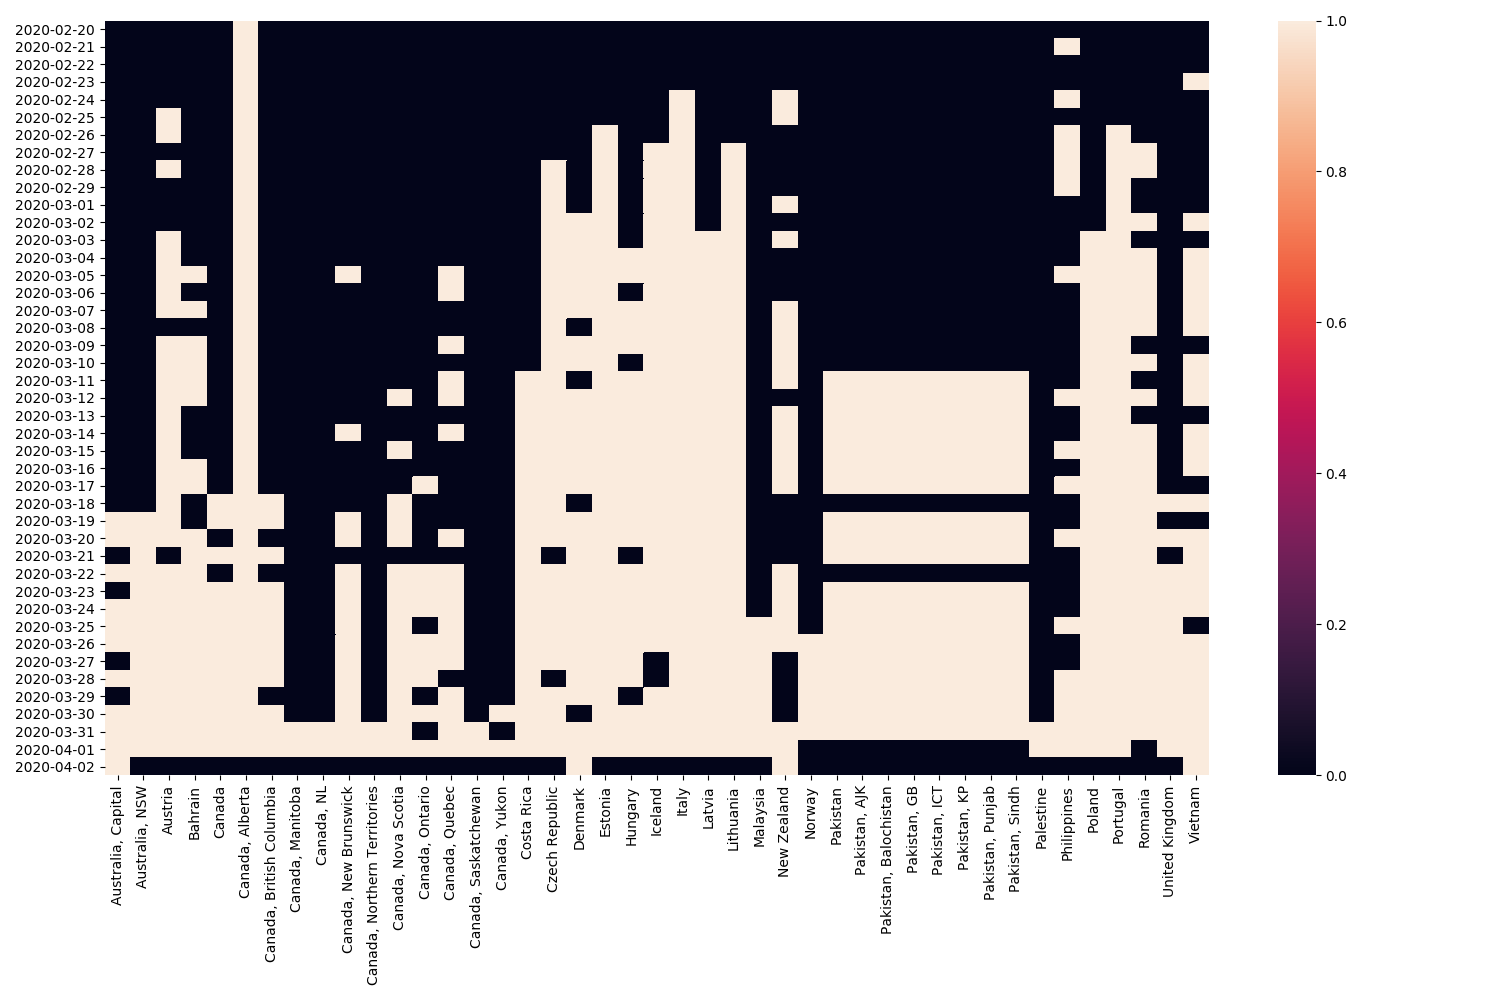
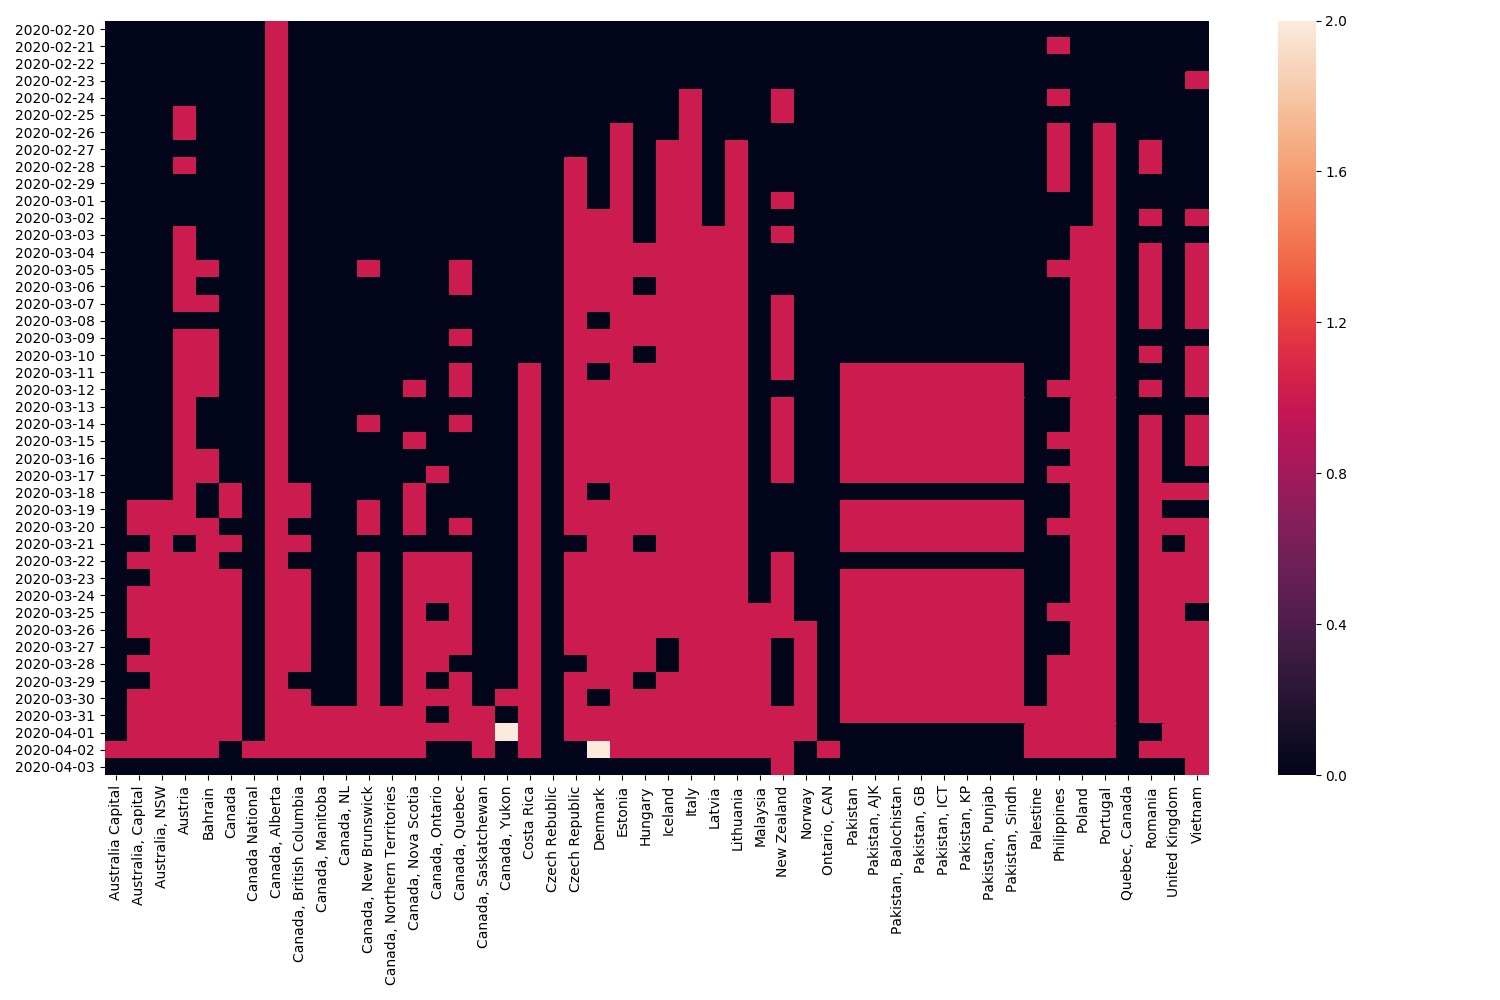
Updated spiders and data for April 2nd

diff --git a/covid19/spiders/international/ecuador.py b/covid19/spiders/international/ecuador.py
@@ -1,0 +1,46 @@
+# -*- coding: utf-8 -*-
+import scrapy
+from covid19.items import TestingStats
+from datetime import datetime as dt
+from dateutil.parser import parse
+import logging
+
+class EcuadorSpider(scrapy.Spider):
+    name = 'ecuador'
+    allowed_domains = ['https://www.salud.gob.ec/']
+    names = ["Ecuador"]
+    case_categories = ["positive", "negative"]
+    custom_settings = {"LOG_LEVEL" : logging.ERROR }
+
+    def start_requests( self ):
+        yield scrapy.Request( "https://www.salud.gob.ec/actualizacion-de-casos-de-coronavirus-en-ecuador/", callback=self.parse )
+
+    def parse(self, response):
+        item = TestingStats()
+
+        #date = response.xpath( '/html/body/div[3]/div/div/div/div[2]/main/p/strong[1]/text()' ).get()
+        #date = dt.strptime( date, 'Stand in Österreich, %d.%m.%Y, %H:%M Uhr' )
+        date = dt.now()
+
+        total = response.xpath( '/html/body/div[2]/div/div/div[2]/section/table/tbody/tr[1]/td[2]/strong[1]/text()' ).get()
+
+        positive = response.xpath( '/html/body/div[2]/div/div/div[2]/section/table/tbody/tr[2]/td[2]/strong/text()' ).get()
+
+        deaths = response.xpath( '/html/body/div[2]/div/div/div[2]/section/table/tbody/tr[2]/td[2]/ul/li[5]/strong/text()' ).get()
+
+        pending = response.xpath( '/html/body/div[2]/div/div/div[2]/section/table/tbody/tr[3]/td[2]/strong/text()' ).get()
+        pending = pending.split( " " )[0]
+
+        negative = response.xpath( '/html/body/div[2]/div/div/div[2]/section/table/tbody/tr[3]/td[2]/p[1]/strong/text()' ).get()
+        negative = negative.split( " " )[0]
+
+        item["date"] = date.strftime("%Y-%m-%d")
+        item["name"] =  self.names[0]
+        item["positive"] = int( positive )
+        item["pending"] = pending
+        item["negative"] = negative
+        item["deaths"] = int( deaths )
+
+        print( item.toAsciiTable() )
+        return item
+

diff --git a/covid19/spiders/international/newzealand.py b/covid19/spiders/international/newzealand.py
@@ -22,12 +22,12 @@ class NewZealandSpider(scrapy.Spider):
         date = date.replace( "\xa0", " " )
         date = parse( date, fuzzy=True )
 
-        positive = response.xpath( '//*[@id="node-10813"]/div[2]/div/div/table/tbody/tr[3]/td[2]/b/text()' ).get()
+        positive = response.xpath( '/html/body/div[2]/div/div[1]/section/div[2]/section/div/div/div[2]/div[2]/div/article/div[2]/div/div/table[1]/tbody/tr[3]/td[2]/strong/text()' ).get()
 
-        total = response.xpath( '/html/body/div[2]/div/div[1]/section/div[2]/section/div/div/div[2]/div[2]/div/article/div[2]/div/div/table[5]/tbody/tr[2]/td[2]/text()' ).get()
+        total = response.xpath( '//*[@id="node-10813"]/div[2]/div/div/table[6]/tbody/tr[2]/td[2]/text()' ).get()
         total = total.replace( ",", "" )
 
-        deaths = response.xpath( '//*[@id="node-10813"]/div[2]/div/div/table/tbody/tr[6]/td[2]/text()' ).get()
+        deaths = response.xpath( '/html/body/div[2]/div/div[1]/section/div[2]/section/div/div/div[2]/div[2]/div/article/div[2]/div/div/table[1]/tbody/tr[6]/td[2]/text()' ).get()
 
         item["date"] = date.strftime("%Y-%m-%d")
         item["name"] =  self.names[0]

diff --git a/covid19/spiders/international/canadamanitoba.py b/covid19/spiders/international/canadamanitoba.py
@@ -24,13 +24,13 @@ class CanadaManitobaSpider( scrapy.Spider ) :
         confirmed = response.xpath( '/html/body/div[4]/div/div/div[3]/div[1]/div/table/tbody/tr[7]/td[2]/p/strong/text()' ).get()
         #confirmed = re.split( ' |\xa0', confirmed_paragraph )[0]
 
-        totals_paragraph = response.xpath( '/html/body/div[4]/div/div/div[3]/div[1]/div/p[12]/text()' ).get()
+        totals_paragraph = response.xpath( '/html/body/div[4]/div/div/div[3]/div[1]/div/p[13]/text()' ).get()
         totals = totals_paragraph.split( " " )[4]
 
         deaths = response.xpath( '/html/body/div[4]/div/div/div[3]/div[1]/div/table/tbody/tr[7]/td[5]/p/strong/text()' ).get()
         #deaths = re.split( ' |\xa0', deaths_paragraph )[0]
 
-        date = response.xpath( '/html/body/div[4]/div/div/div[3]/div[1]/div/p[11]/em/text()' ).get()
+        date = response.xpath( '/html/body/div[4]/div/div/div[3]/div[1]/div/p[12]/em/text()' ).get()
         date = parse( date, fuzzy=True )
 
         item["date"] = date.strftime( "%Y-%m-%d" )

diff --git a/covid19/spiders/international/canadaontario.py b/covid19/spiders/international/canadaontario.py
@@ -31,12 +31,12 @@ class CanadaOntarioSpider( scrapy.Spider ):
             value = row.xpath( "td[2]/text()" ).get()
             item_dict[self.case_categories[i]] = int( value )
 
-        item["date"] = "2020-03-30"
+        item["date"] = "2020-04-02"
         item["name"] = "Ontario, CAN"
-        item["negative"] = 57874-2392
-        item["positive"] = 2392
-        item["deaths"] = 37
-        item["pending"] = 3135
+        item["negative"] = 62733-2793
+        item["positive"] = 2793
+        item["deaths"] = 53
+        item["pending"] = 2052
 
         print( item.toAsciiTable() )
         return item

diff --git a/covid19/spiders/international/canadaalberta.py b/covid19/spiders/international/canadaalberta.py
@@ -42,9 +42,9 @@ class CanadaAlbertaSpider( scrapy.Spider ):
 
         item["name"] = self.names[0]
         item['date'] = dt.now().strftime( "%Y-%m-%d" )
-        item["positive"] = 871
-        item["negative"] = 53141 - 871
-        item["deaths"] = 11
+        item["positive"] = 968
+        item["negative"] = 57096 - 968
+        item["deaths"] = 13
 
         print( item.toAsciiTable() )
         return item

diff --git a/covid19/spiders/international/austria.py b/covid19/spiders/international/austria.py
@@ -30,6 +30,7 @@ class AustriaSpider(scrapy.Spider):
 
         total = response.xpath( '/html/body/div[3]/div/div/div/div[2]/main/p[2]/text()' ).get()
         total = total.replace( ".", "" )
+        total = total.split( " (" )[0]
 
         deaths = response.xpath( '/html/body/div[3]/div/div/div/div[2]/main/p[4]/text()[2]' ).get()
         deaths = deaths.split( "," )[0]

diff --git a/covid19/spiders/international/canadanb.py b/covid19/spiders/international/canadanb.py
@@ -41,8 +41,8 @@ class CanadaNewBrunswickSpider( scrapy.Spider ):
 
         item["date"] = date.strftime( "%Y-%m-%d" )
         item["name"] = self.names[0]
-        item["positive"] = 0
-        item["negative"] = 0
+        item["positive"] = 91
+        item["negative"] = 4520-91
         item["deaths"] = 0
 
         print( item.toAsciiTable() )
